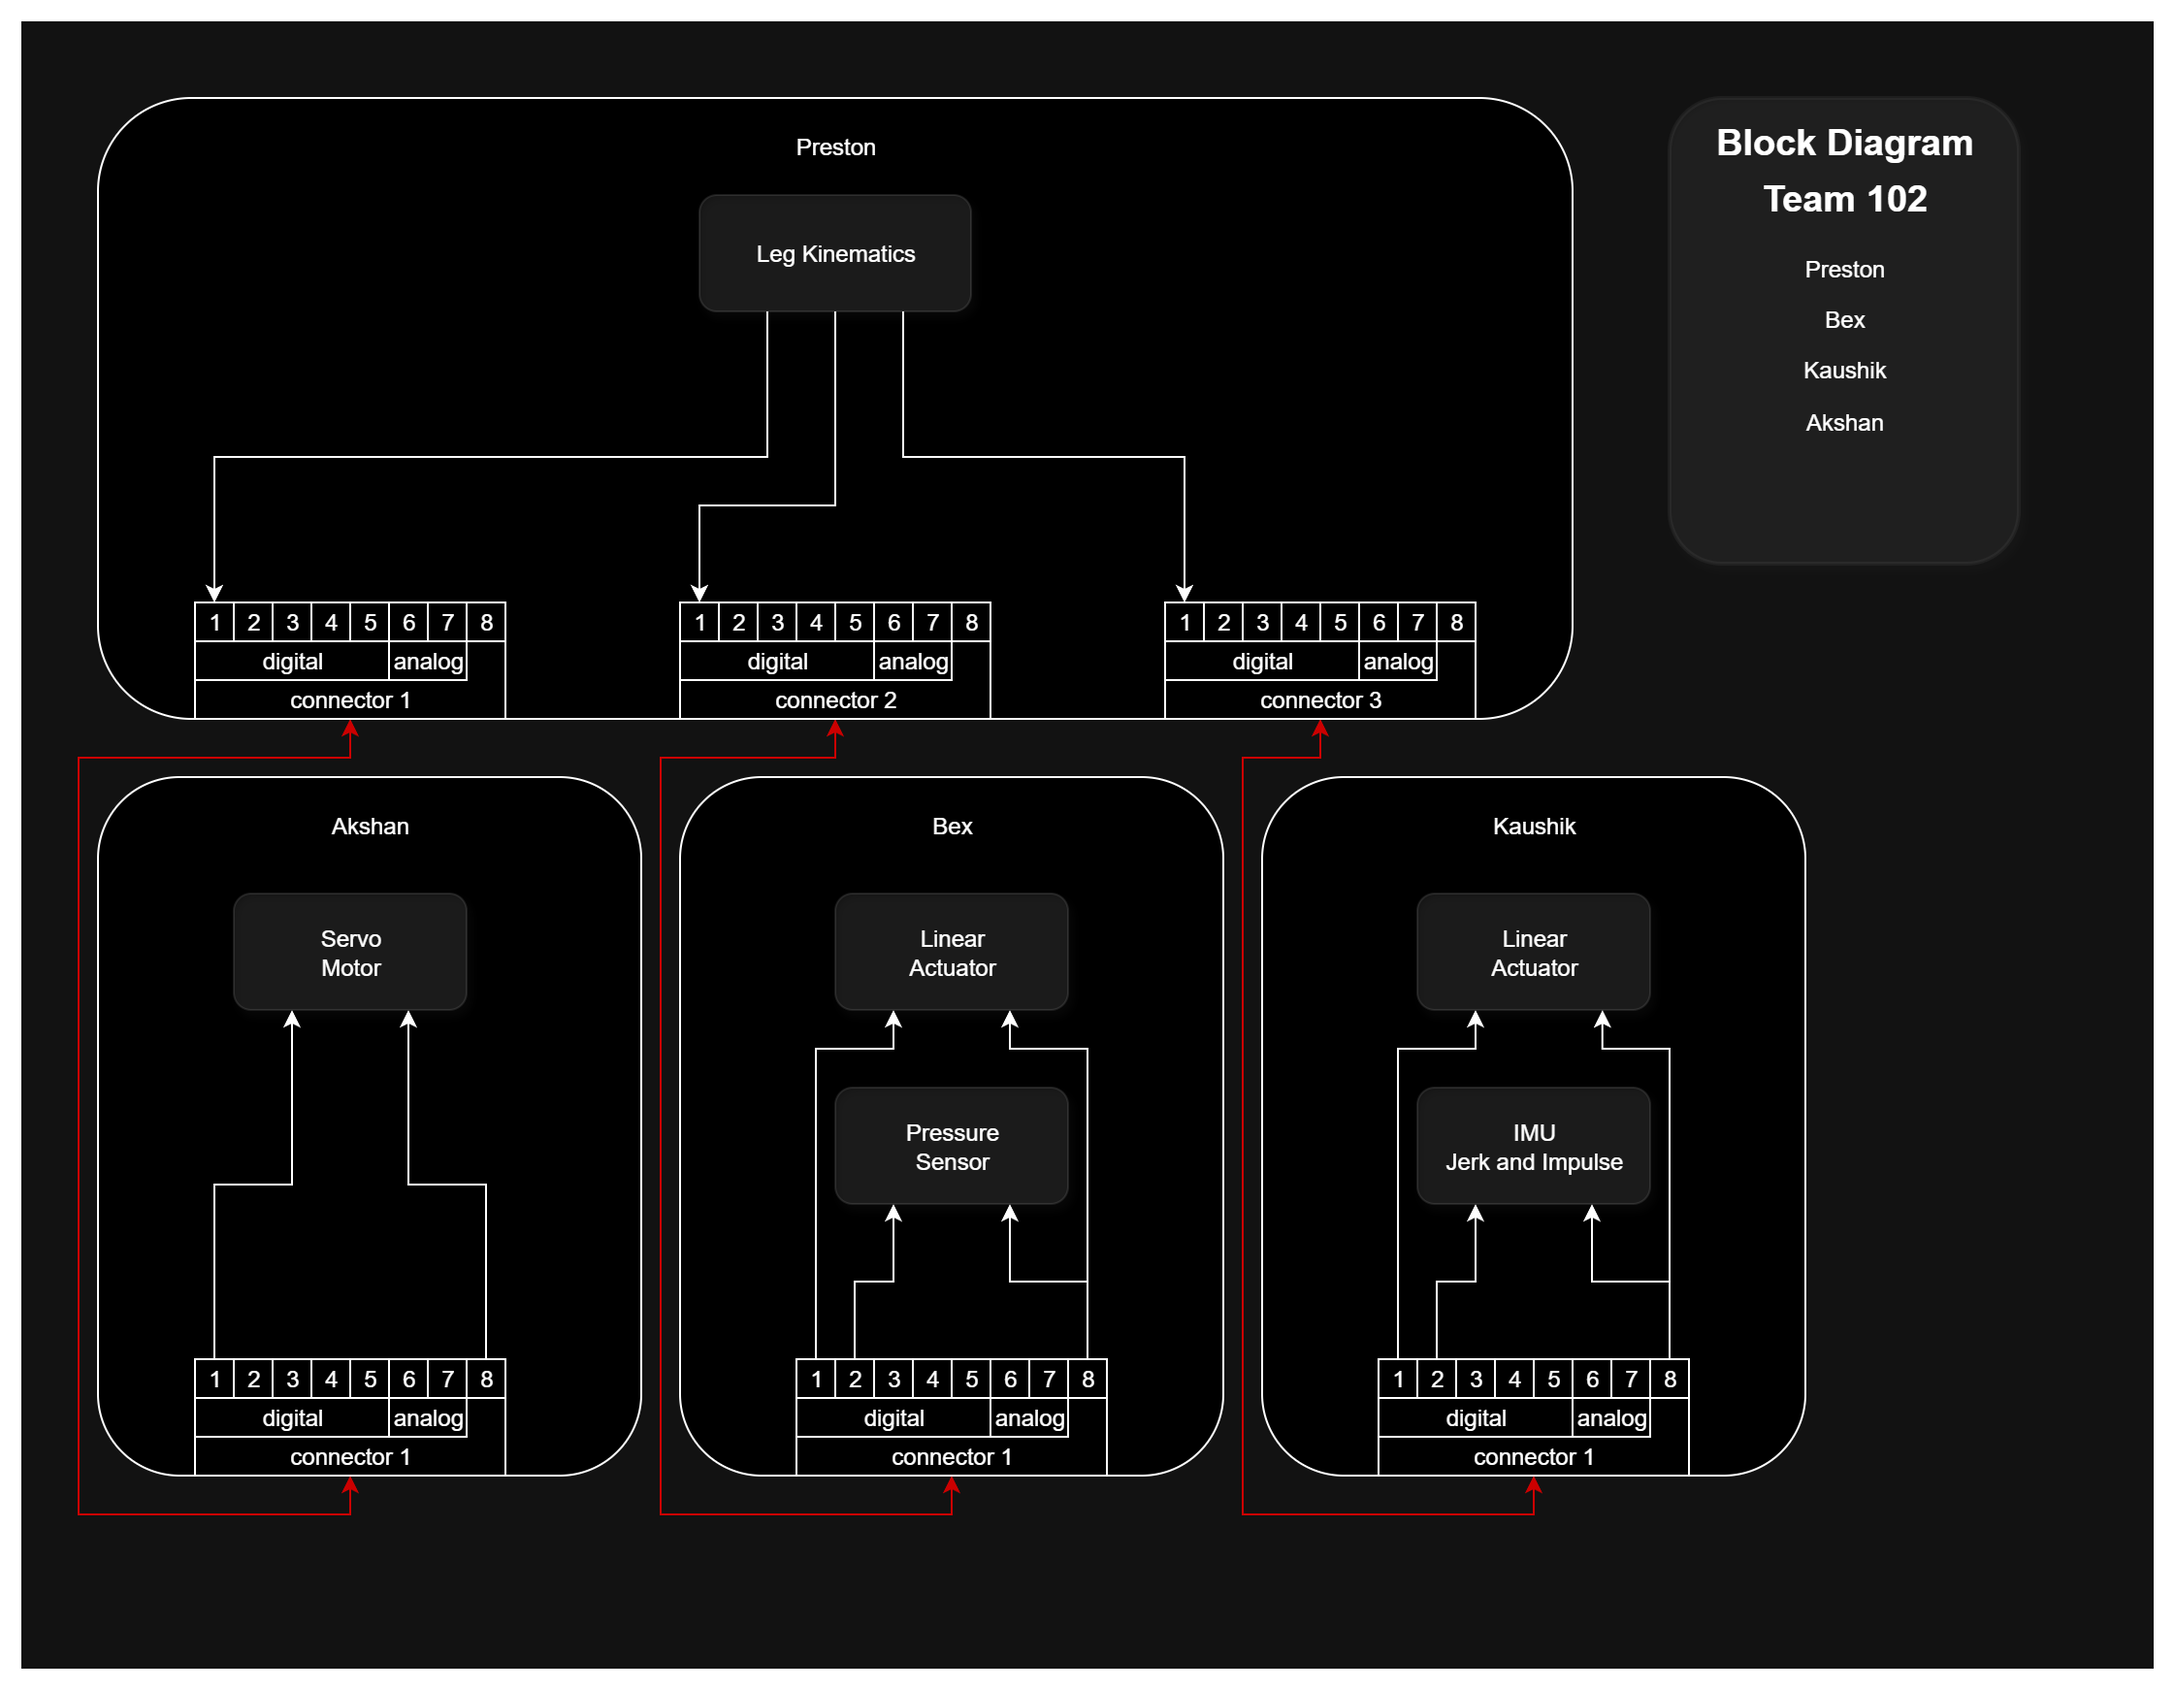
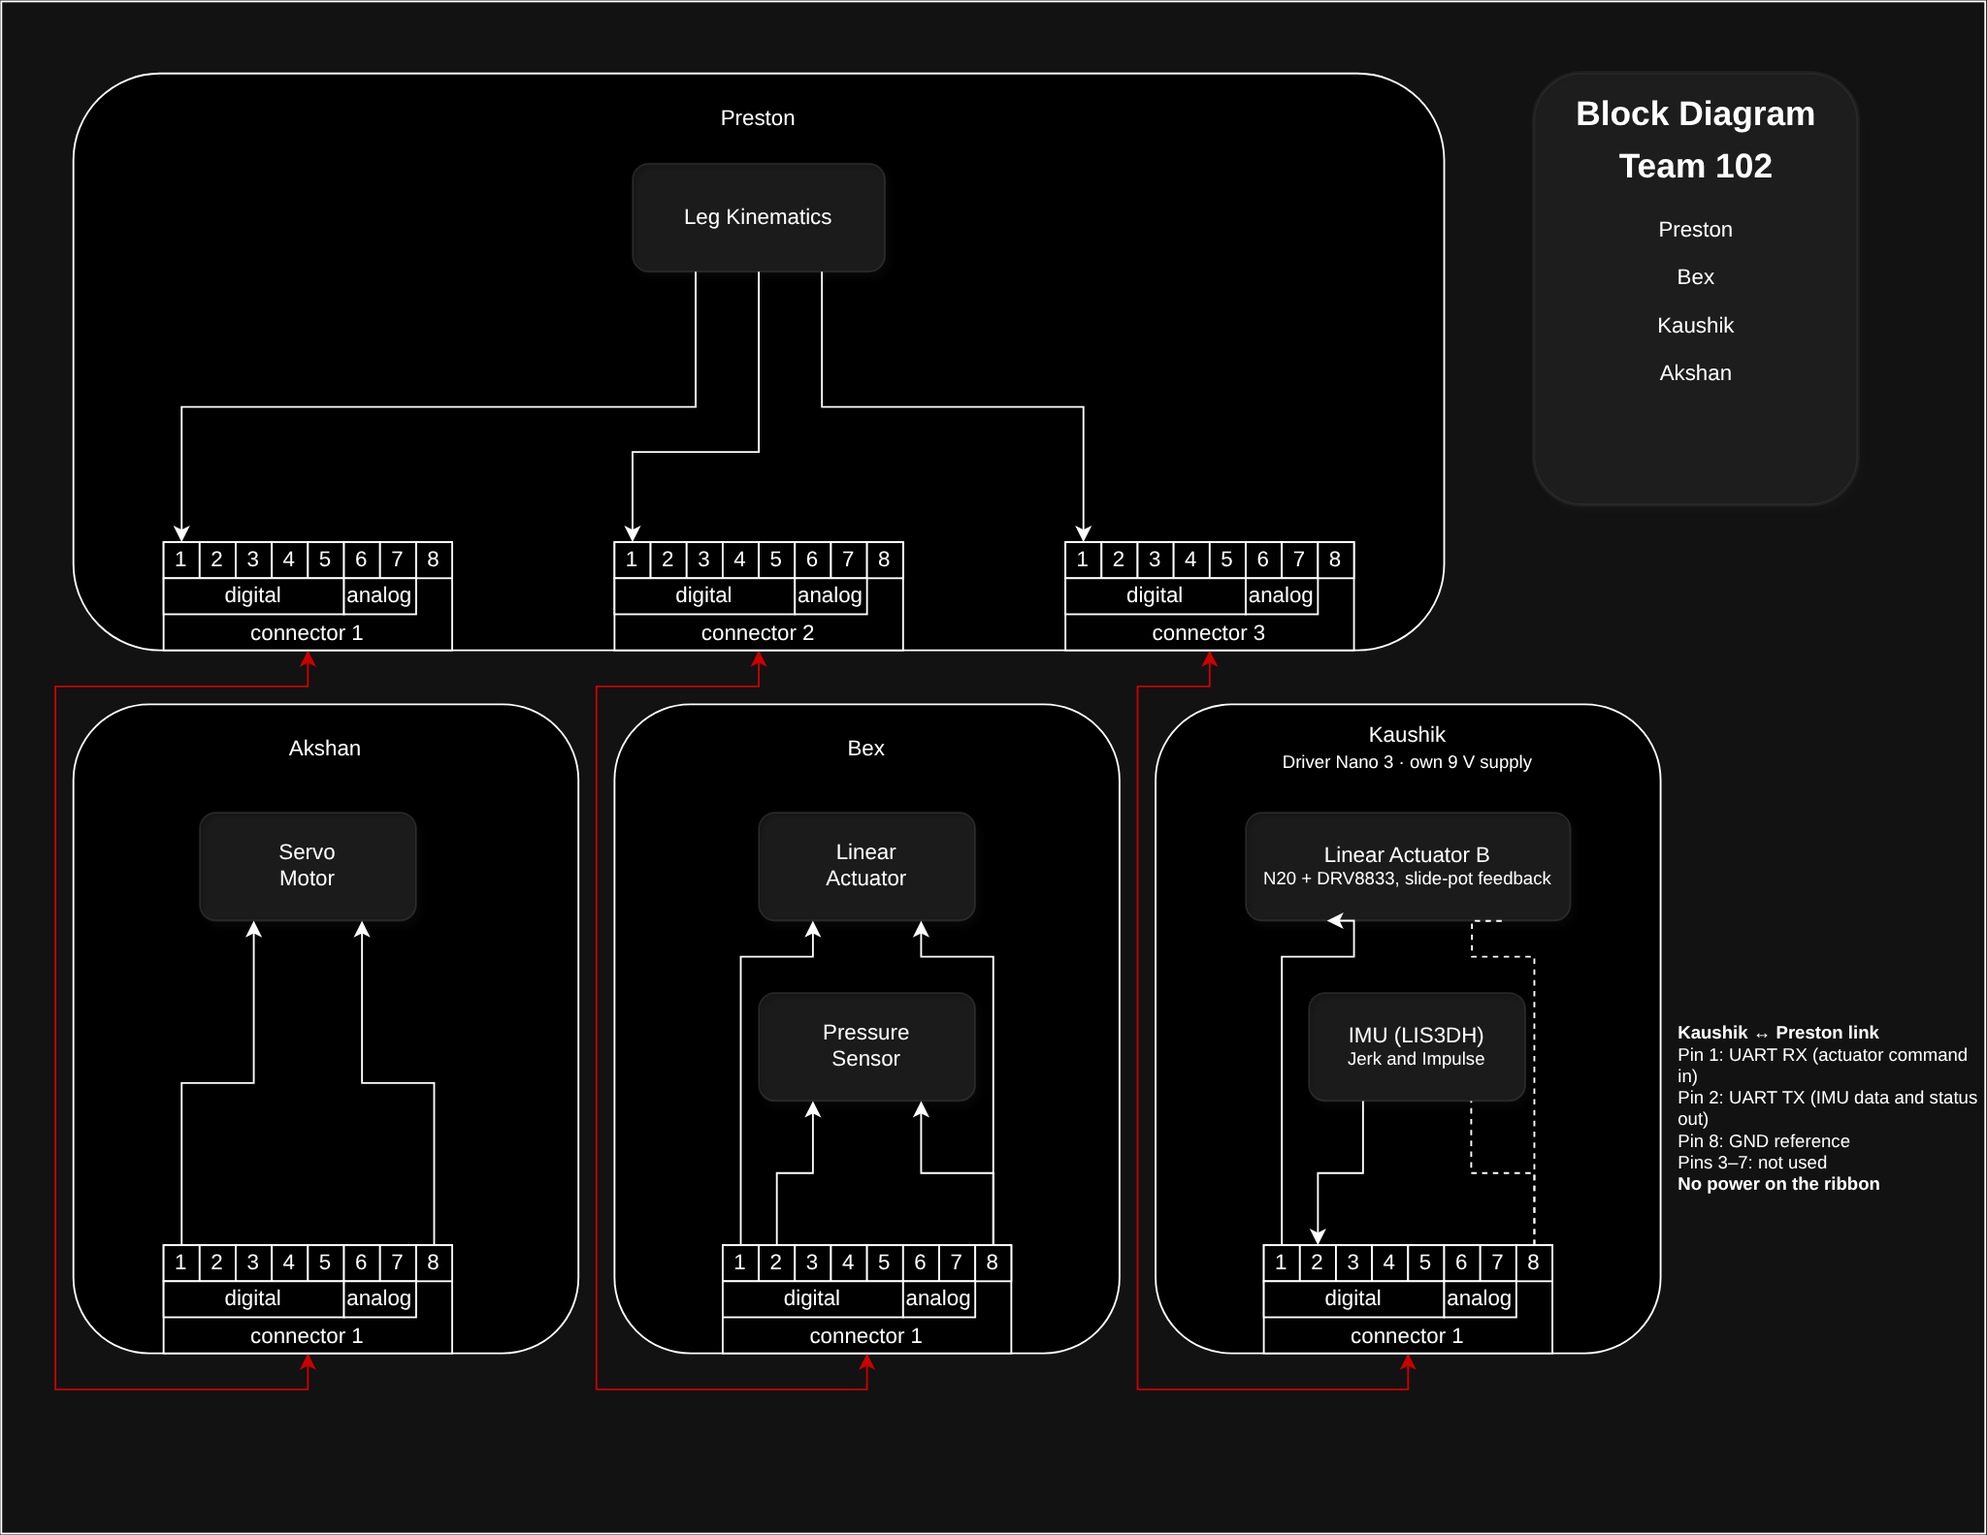
Update Kaushik's sections for external design review
- Driver Nano 3 (block diagram + software proposal): match current design
  (slide-pot feedback, stall detection, LIS3DH, UART link, own 9 V supply);
  no limit switches on this board
- Team block diagram: update Kaushik box (UART RX/TX, GND reference, own
  supply, no power on ribbon); add zipped draw.io source and link
- Team Organization: remove template text, fix typo, add team composition
- Home header: project name, semester, course, submission date
- Design ideation: fix broken concept image paths

diff --git a/docs/06-team-block-diagram.md b/docs/06-team-block-diagram.md
@@ -23,9 +23,11 @@ The system uses four Curiosity Nano microcontrollers. One Nano handles the main 
 
 ### Original Team 102 Block Diagram
 
-![Original Team 102 Block Diagram](../images/team-block-diagram.png)
+![Original Team 102 Block Diagram](images/team-block-diagram.png)
 
 *Figure 1: Original Team 102 block diagram showing the main controller and three driver controllers.*
+
+Block diagram source: [draw.io source (ZIP)](images/team-block-diagram-source.zip) · [draw.io file](images/team-block-diagram.drawio)
 
 The main Nano acts as the central controller. The other Nanos receive movement commands and return sensor information.
 
@@ -42,7 +44,7 @@ Each team member is responsible for a different portion of the robotic leg.
 | Preston | Main Nano | Kinematics, IR remote, RGB LED, communication |
 | Akshan | Driver Nano 1 | Servo motor and proposed display |
 | Bex | Driver Nano 2 | Linear actuator A, pressure sensor, limit switches, status LED |
-| Kaushik | Driver Nano 3 | Linear actuator B, IMU, limit switches, sensor feedback |
+| Kaushik | Driver Nano 3 | Linear actuator B with slide-pot position feedback and stall detection, LIS3DH IMU (jerk and impulse), UART feedback |
 
 ### Main Nano — Preston
 
@@ -83,11 +85,14 @@ This controller is responsible for:
 
 This controller is responsible for:
 
-- Receiving movement commands
-- Controlling linear actuator B
-- Reading the IMU
-- Monitoring assigned limit switches
-- Sending sensor information to the main Nano
+- Receiving linear actuator B position commands from the main Nano over UART
+- Controlling linear actuator B (DFRobot FIT0577 N20 lead-screw motor) through a DRV8833 motor driver
+- Reading a slide potentiometer for the actuator's position (closed-loop control)
+- Monitoring motor current for stall detection (0.61 A current limit)
+- Reading the LIS3DH IMU (accelerometer) and computing jerk and impulse
+- Sending IMU data and actuator status to the main Nano over UART
+
+Driver Nano 3 is powered by its own 9 V supply. Its only connection to the main Nano is the UART link (pins 1 and 2 of the ribbon cable) and a ground reference (pin 8). Full details are on [Kaushik's datasheet](https://kaushikgunasekaren.github.io/kgunase7_RAS304_F26/).
 
 ---
 

diff --git a/docs/02-Team-Organization.md b/docs/02-Team-Organization.md
@@ -7,12 +7,23 @@ tags:
 
 ## Team Charter
 
-From the Team's Goals which can be reviewed in ["Appendix: Team Organization"](https://ras304-fall26-102.github.io/Appendix/App-Team-Org/), the team's charter formed to be :
+From the Team's Goals which can be reviewed in ["Appendix: Team Organization"](https://ras304-fall26-102.github.io/Appendix/App-Team-Org/), the team's charter is:
 
-> Team 102 strives to produce quality projects, not only developing ideas for the greated good of humanity but also to expand the boundaries of public information; advancing the knowledge of ourselves and others at the same time.
+> Team 102 strives to produce quality projects, not only developing ideas for the greater good of humanity but also to expand the boundaries of public information; advancing the knowledge of ourselves and others at the same time.
 
 ## Product Mission Statement
 
-Describe the distilled purpose, function, or reason for your product to exist. From this form a team mission statement. Our mission statement is:
+Our mission statement is:
 
- > Team 102's mission is to expand the boundaries of knowledge through prototyping and assembling new projects.
+> Team 102's mission is to expand the boundaries of knowledge through prototyping and assembling new projects.
+
+## Team Composition
+
+| Team Member | Role | Subsystem | Datasheet |
+|---|---|---|---|
+| Preston Potts | Main Nano (hub) | Leg kinematics, IR remote, RGB status LED, communication | [Preston's datasheet](https://r0gue12.github.io/papotts_RAS304_Fall26/) |
+| Akshan Bhelkar | Driver Nano 1 | Servo motor and diagnostic display | [Akshan's datasheet](https://akshan2.github.io/abhelkar_RAS304_F26/) |
+| Bex Baker | Driver Nano 2 | Linear actuator A and pressure sensor | [Bex's datasheet](https://rab2254-art.github.io/rbaker54_RAS304_F26/) |
+| Kaushik Gunasekaren | Driver Nano 3 | Linear actuator B and IMU (jerk and impulse sensing) | [Kaushik's datasheet](https://kaushikgunasekaren.github.io/kgunase7_RAS304_F26/) |
+
+Team goals, communication channels and the meeting schedule are in the [Appendix: Team Organization](Appendix/App-Team-Org.md).

diff --git a/docs/07-Software Proposal.md b/docs/07-Software Proposal.md
@@ -30,7 +30,7 @@ The main Nano calculates where the leg should move. The driver Nanos receive com
 | Main Nano | Preston | Kinematics, IR remote, RGB LED, communication |
 | Driver Nano 1 | Akshan | Servo motor and proposed display |
 | Driver Nano 2 | Bex | Linear actuator A, pressure sensor, limit switches, status LED |
-| Driver Nano 3 | Kaushik | Linear actuator B, IMU, limit switches, sensor feedback |
+| Driver Nano 3 | Kaushik | Linear actuator B with slide-pot position feedback and stall detection, LIS3DH IMU (jerk and impulse), UART feedback |
 
 ### Leg Control Block Diagram
 
@@ -80,11 +80,14 @@ Bex's Nano is responsible for:
 
 Kaushik's Nano is responsible for:
 
-- Receiving actuator commands
-- Controlling linear actuator B
-- Reading the IMU
-- Checking assigned limit switches
-- Sending sensor feedback to the main Nano
+- Receiving linear actuator B position commands from the main Nano over UART
+- Controlling linear actuator B (DFRobot FIT0577 N20 lead-screw motor) through a DRV8833 motor driver
+- Reading a slide potentiometer for the actuator's position (closed-loop control)
+- Monitoring motor current for stall detection (0.61 A current limit)
+- Reading the LIS3DH IMU (accelerometer) and computing jerk and impulse
+- Sending IMU data and actuator status to the main Nano over UART
+
+Driver Nano 3 is powered by its own 9 V supply. Its only connection to the main Nano is the UART link (pins 1 and 2 of the ribbon cable) and a ground reference (pin 8). Full details are on [Kaushik's datasheet](https://kaushikgunasekaren.github.io/kgunase7_RAS304_F26/).
 
 ---
 

diff --git a/docs/05-design-ideation.md b/docs/05-design-ideation.md
@@ -225,7 +225,7 @@ This concept uses rotary servo motors to move the joints.
 
 **Challenges:** Motor torque and joint loading must be considered.
 
-![Rotary Servo Concept](../images/Concept1_Leg-1.png)
+![Rotary Servo Concept](image/Concept1_Leg-1.png)
 
 ### Concept 2: Electric Linear-Actuator Leg
 
@@ -244,7 +244,7 @@ This concept uses electric linear actuators connected to mechanical linkages.
 
 **Challenges:** Actuator mounting and joint geometry require careful design.
 
-![Linear Actuator Concept](../images/Concept2_Leg-1.png)
+![Linear Actuator Concept](image/Concept2_Leg-1.png)
 
 ### Concept 3: Linear-Actuated Leg with Gecko End Effector
 
@@ -263,7 +263,7 @@ This concept combines electric linear actuators with a replaceable gecko-inspire
 
 **Challenges:** Gecko-style gripping introduces additional complexity.
 
-![Gecko End Effector Concept](../images/Concept3_Leg-1.png)
+![Gecko End Effector Concept](image/Concept3_Leg-1.png)
 
 ---
 

diff --git a/docs/index.md b/docs/index.md
@@ -5,13 +5,13 @@ tags:
 - tag2
 ---
 <center>
-<font size="8">Project Alpha<br>
+<font size="8">Modular Spider Leg<br>
 <font size="5">Team 102<br>
 <font size="5">Kaushik, Preston, Akshan, Bex<br>
-**Submission: month, DD, YYYY**<br>
-Fall 2025<br>
+**Submission: October 29, 2026**<br>
+Fall 2026<br>
 <font size="4">Arizona State University<br>
-**EGR 304**<br>
+**RAS 304**<br>
 Professor Thangavelu<br>
   
 
